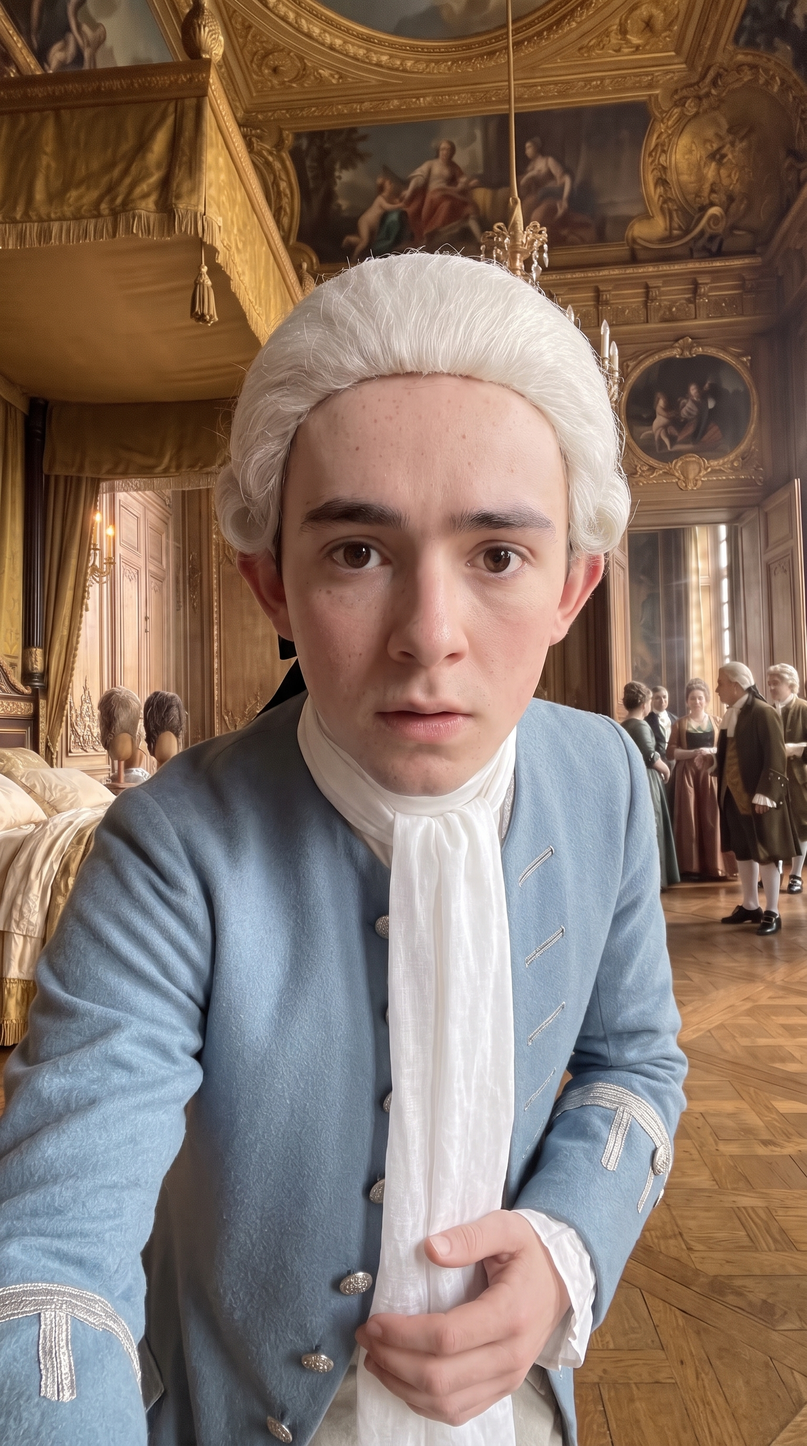
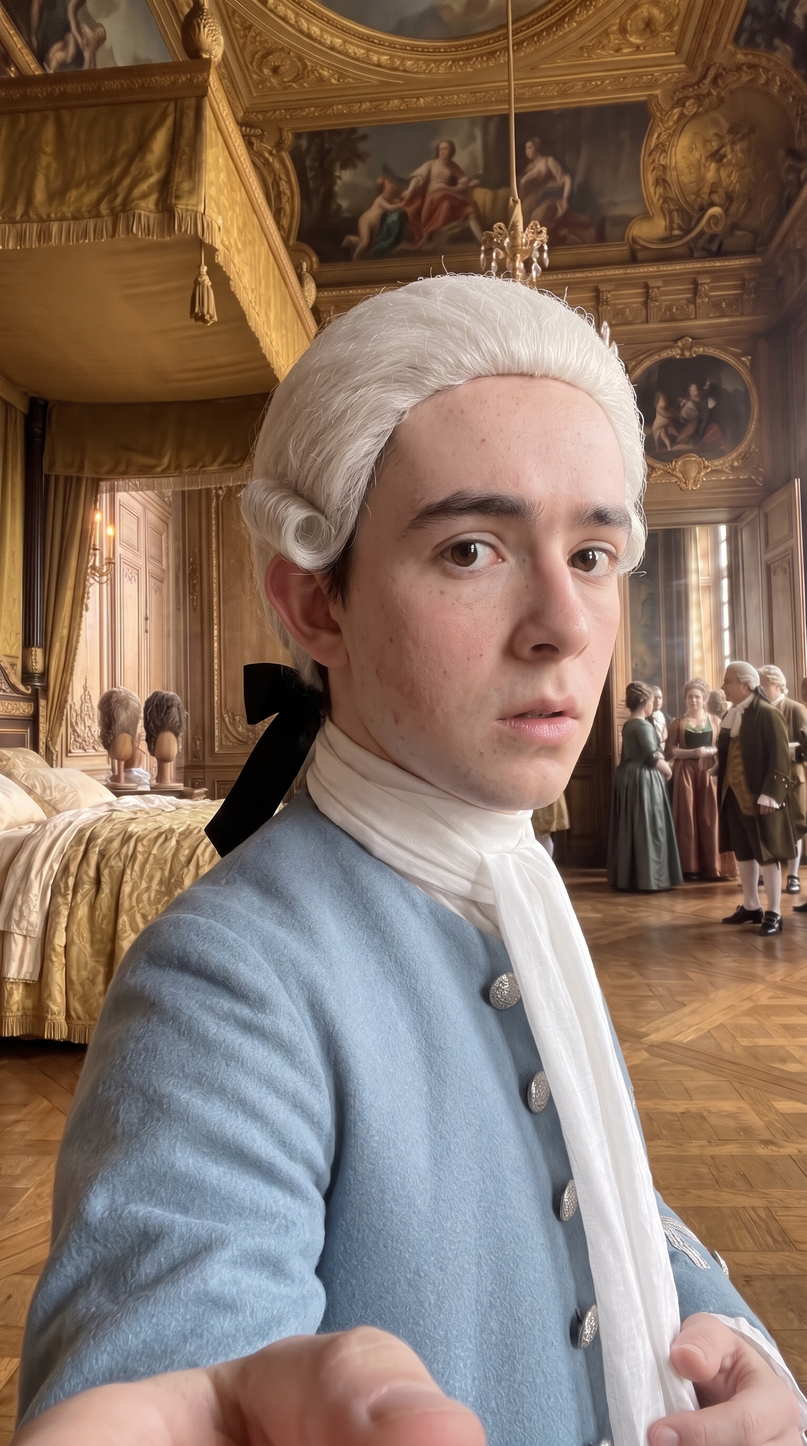
Marcel three-quarter redone as a true 45-degree view
Claude-Session: https://claude.ai/code/session_01KcWrBtThWhQ2oQ8XkNDupx

diff --git a/map_shorts/history_channel/louis_ep1/gen_marcel_card.py b/map_shorts/history_channel/louis_ep1/gen_marcel_card.py
@@ -10,7 +10,7 @@ FACE = ("a slim young man of about 18 with a round, open, slightly freckled face
 LIVERY = ("a plain short white-powdered wig tied at the nape with a black ribbon, a sky-blue wool coat with plain silver braid on the cuffs and a row of small silver buttons, a white linen cravat, white stockings and black buckled shoes; no gold, no red")
 BASE = "Vertical 9:16 phone photo, ultra-wide front camera look, soft natural window light in a gilded palace room, photorealistic, real skin texture with visible pores. No text, no modern objects. "
 SC = {"front": f"Close front portrait, shoulders and head, looking straight into the lens with a worried, eager look. {FACE.capitalize()}, wearing {LIVERY}.",
-      "three_quarter": f"Three-quarter view from the waist up, bowing slightly with his eyes lowered then glancing at the lens. {FACE.capitalize()}, wearing {LIVERY}. EXACTLY the same face as the first reference image.",
+      "three_quarter": f"Head and shoulders in a TRUE three-quarter view: the whole head and body turned 45 degrees to HIS left, so we see his right cheek and his right ear fully while the far cheek and far ear are partly hidden, the nose pointing clearly to the side of the frame, his eyes turned back toward the lens with a worried look. {FACE.capitalize()}, wearing {LIVERY}. EXACTLY the same face as the first reference image.",
       "full": f"Full-length standing figure in a gilded palace corridor, holding a large plumed black hat in both hands in front of him, anxious posture. {FACE.capitalize()}, wearing {LIVERY}. EXACTLY the same face as the first reference image."}
 
 

diff --git a/map_shorts/history_channel/marcel_card/README.md b/map_shorts/history_channel/marcel_card/README.md
@@ -25,3 +25,5 @@ Angles: a1_left34, a2_right34, a3_profile_left, a4_profile_right, a5_back, a6_fr
 INSPECTED by me on the contact sheet: the same man in all 16 (round freckled face, dark brown eyes, thick brows, sticking-out ears, small chin), the same wig with the black ribbon and the sky-blue coat; wall light and corridor are plain, so the face is the only variable. Strong: e3_alarmed, e5_eager, e8_relieved, profiles. Weak (soft): e4_apologetic and e6_timid read almost neutral; e7_terrified is mild; a5_back shows a half-turned head. Use: the first two references for any prompt with Marcel = marcel_front.jpg + the sheet image closest to the needed angle/emotion (e.g. e3_alarmed for "Pardon, Sire!", a8_bow_side for bows). NOT APPROVED by the owner yet.
 
 ## Emotions redone 30.10 (owner: the page must be exactly "apologetic, timid, terrified"; 3 x $0.04 = $0.12): sheet_e4_apologetic, sheet_e6_timid, sheet_e7_terrified replaced (old ones kept as *_v1.jpg), comparison marcel_emotions_fix.jpg. INSPECTED: same man in all three. e4 apologetic: head bowed, brows pulled up, pained mouth, hands clasped in a pleading gesture: strong. e6 timid: eyes down to the side, brows tense, mouth slightly open: clearly more timid than v1. e7 terrified: eyes very wide, brows high, open mouth, head pulled back: strong. The three-quarter reference (marcel_three_quarter.jpg, almost frontal) is unchanged.
+
+## Three-quarter redone 30.10 (owner "да" to my offer; $0.04): marcel_three_quarter.jpg is now a true 45-degree turn (head and body turned, the right cheek and ear fully visible, eyes back to the lens); v1 (almost frontal) kept as marcel_three_quarter_v1.jpg. INSPECTED: the same man (freckles, brown eyes, thick brows, ears, small chin), the same wig and ribbon, the blue coat. Soft defect: a thumb of the phone hand again at the lower edge (selfie look). Use this file as the SECOND face reference for every Marcel prompt from now on.

diff --git a/map_shorts/history_channel/spend_ledger.md b/map_shorts/history_channel/spend_ledger.md
@@ -74,3 +74,4 @@
 | 30.10 | Cook front redo with a period cap, Nano Banana 2.1 | $0.04 (usage.cost) |
 | 30.10 | Cook front v3 (no thumb, fuller double chin), Nano Banana 2.1 | $0.04 (usage.cost) |
 | 30.10 | Marcel emotions redo (apologetic, timid, terrified), Nano Banana 2.1 | $0.12 (3 x 0.04) |
+| 30.10 | Marcel three-quarter redo, Nano Banana 2.1 | $0.04 (usage.cost) |
